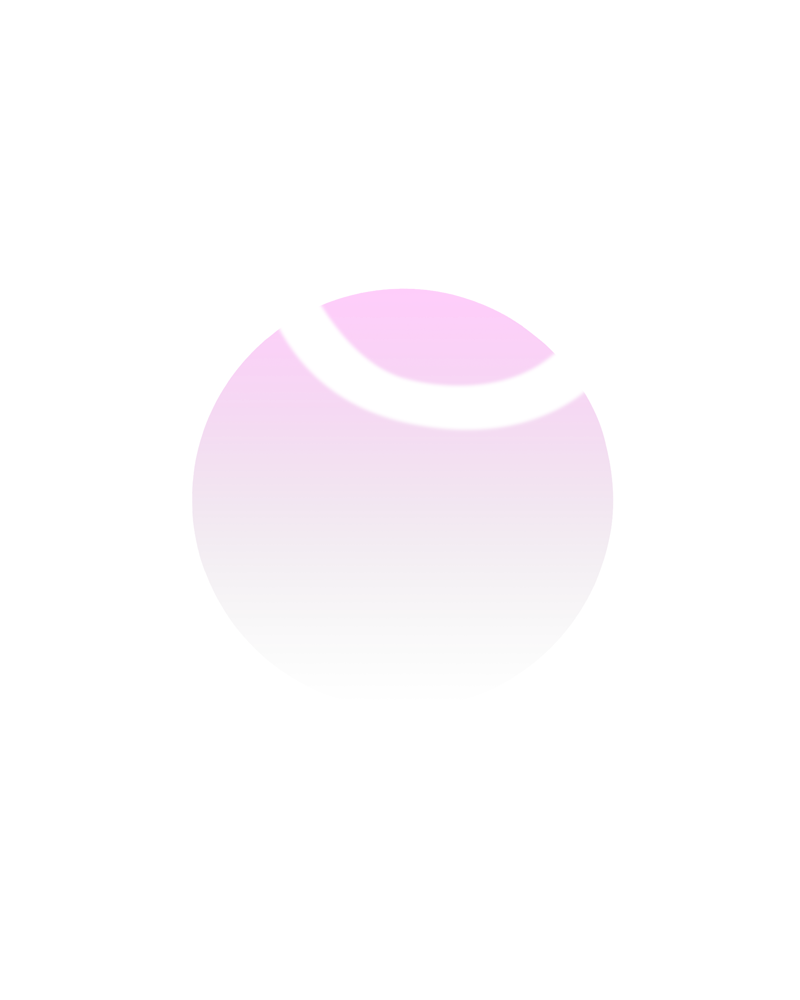
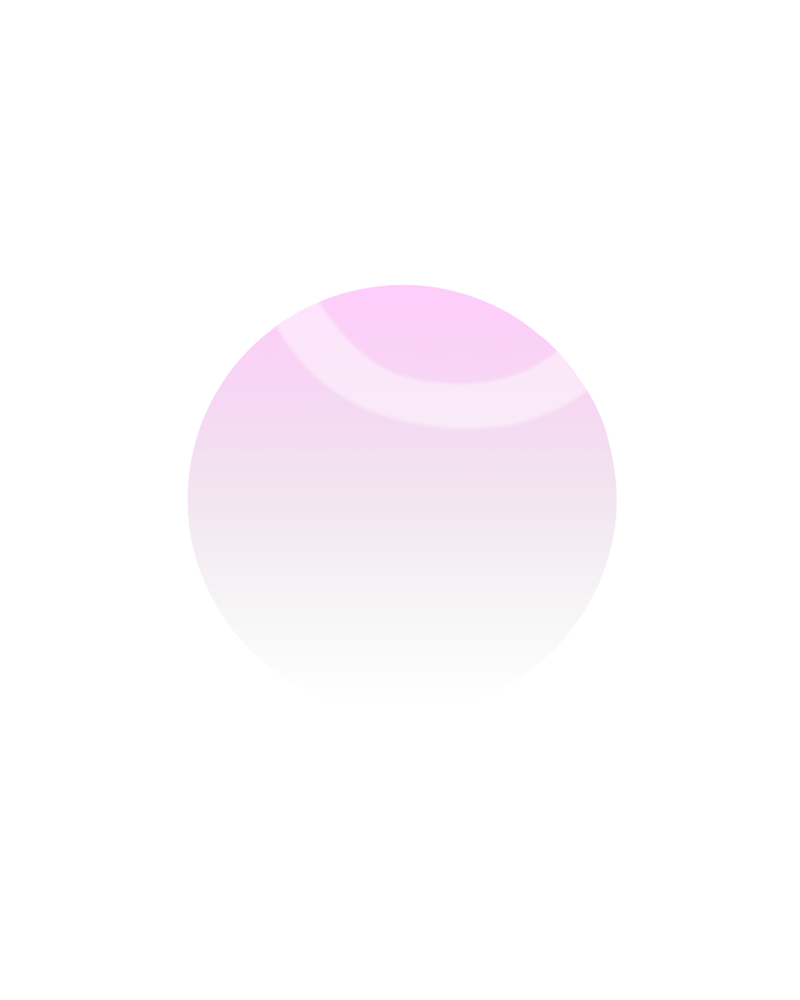
Size the AP crystal to the bezel's visible aperture and put it on top of the stack
The crystal disc was 215 and, with the enlarged AP rehaut now sitting above the
bezel, it was clipped at the ring's inner edge (r195) — so it read as smaller than
the bezel's hole (r218), which is what the user reported.

- re-cut the three SJG42 crystals to a 219 disc (x1.01813) so the glass reaches the
  bezel's flat top face, and soften the white specular arc from 1.0 to 0.45 — it
  now lands on the orange ring and was cutting it in half
- generalise the per-part layer override: `aboveCase` / `aboveBezel` become one
  field, `above: '<layer>'`, resolved by activeLayerOrder() over a few passes so a
  chain works. AP uses crown->case, chapterRing->bezel, crystal->chapterRing
  (glass covers the whole stack, which is also the physically correct order)
- crowns keep `above: case` (Classic Retro + AP), every other family untouched

diff --git a/index.html b/index.html
@@ -1854,25 +1854,27 @@ let currentView = 'front';
 // thin outer lip). Drawing them below the bezel hid all but the inner 11 px of the ring.
 // Crowns render BELOW the case: the tube (front) is physically hidden under
 // the case flank / crown guards, only the head sticks out at the 3:30 pocket.
-// One exception, driven by the part itself: a crown whose head is drawn to sit OVER the
-// case's protruding tube (the Classic Retro pumpkin crown, `aboveCase: true`) has to cover
-// it, so it is stacked just above the case. The shared 22-crown set keeps the default —
-// under the case — which is exactly what hides its own tube behind the guards.
+// A part can override its slot with a single field, `above: '<layer>'`, and be stacked directly on
+// top of that layer instead. Three real cases so far:
+//   - the Classic Retro pumpkin crown sits above `case`, because its head is drawn to cover the
+//     case's protruding tube (the shared 22-crown set keeps the default and hides its tube);
+//   - an AP chapter ring (cut to the bezel's inner cone, `prefit`) sits above `bezel`, otherwise
+//     the bezel's own cone paints straight over it;
+//   - the AP crystal sits above `chapterRing` — glass covers the whole stack, so it must not be
+//     clipped by the enlarged rehaut underneath it.
+// Parts without the field keep their normal slot, so every other family renders exactly as before.
 const frontLayerOrder = ['strap', 'crown', 'case', 'chapterRing', 'crystal', 'dial', 'hands', 'bezel', 'insert'];
 function activeLayerOrder() {
-  let order = frontLayerOrder.slice();
-  // A crown drawn to cover the case's protruding tube has to sit just above the case.
-  if (selections.crown && selections.crown.aboveCase) {
-    order = order.filter(k => k !== 'crown');
-    order.splice(order.indexOf('case') + 1, 0, 'crown');
-  }
-  // Some bezels carry a wide inner cone that reads as part of the aperture (AP: 26px, r 192-218).
-  // A ring drawn underneath disappears into that cone and looks a size too small, so such a ring
-  // asks to be stacked above the bezel instead. Its artwork is already cut to that diameter
-  // (`prefit`), so its outer edge stops at the bezel's flat top face and does not cover it.
-  if (selections.chapterRing && selections.chapterRing.aboveBezel) {
-    order = order.filter(k => k !== 'chapterRing');
-    order.splice(order.indexOf('bezel') + 1, 0, 'chapterRing');
+  const moving = partTypes.filter(t => selections[t] && frontLayerOrder.includes(selections[t].above));
+  if (!moving.length) return frontLayerOrder;
+  const order = frontLayerOrder.filter(t => !moving.includes(t));
+  // Several passes so a chain resolves: crystal -> chapterRing -> bezel.
+  for (let pass = 0; pass < 3; pass++) {
+    moving.forEach(t => {
+      if (order.includes(t)) return;
+      const at = order.indexOf(selections[t].above);
+      if (at >= 0) order.splice(at + 1, 0, t);
+    });
   }
   return order;
 }
